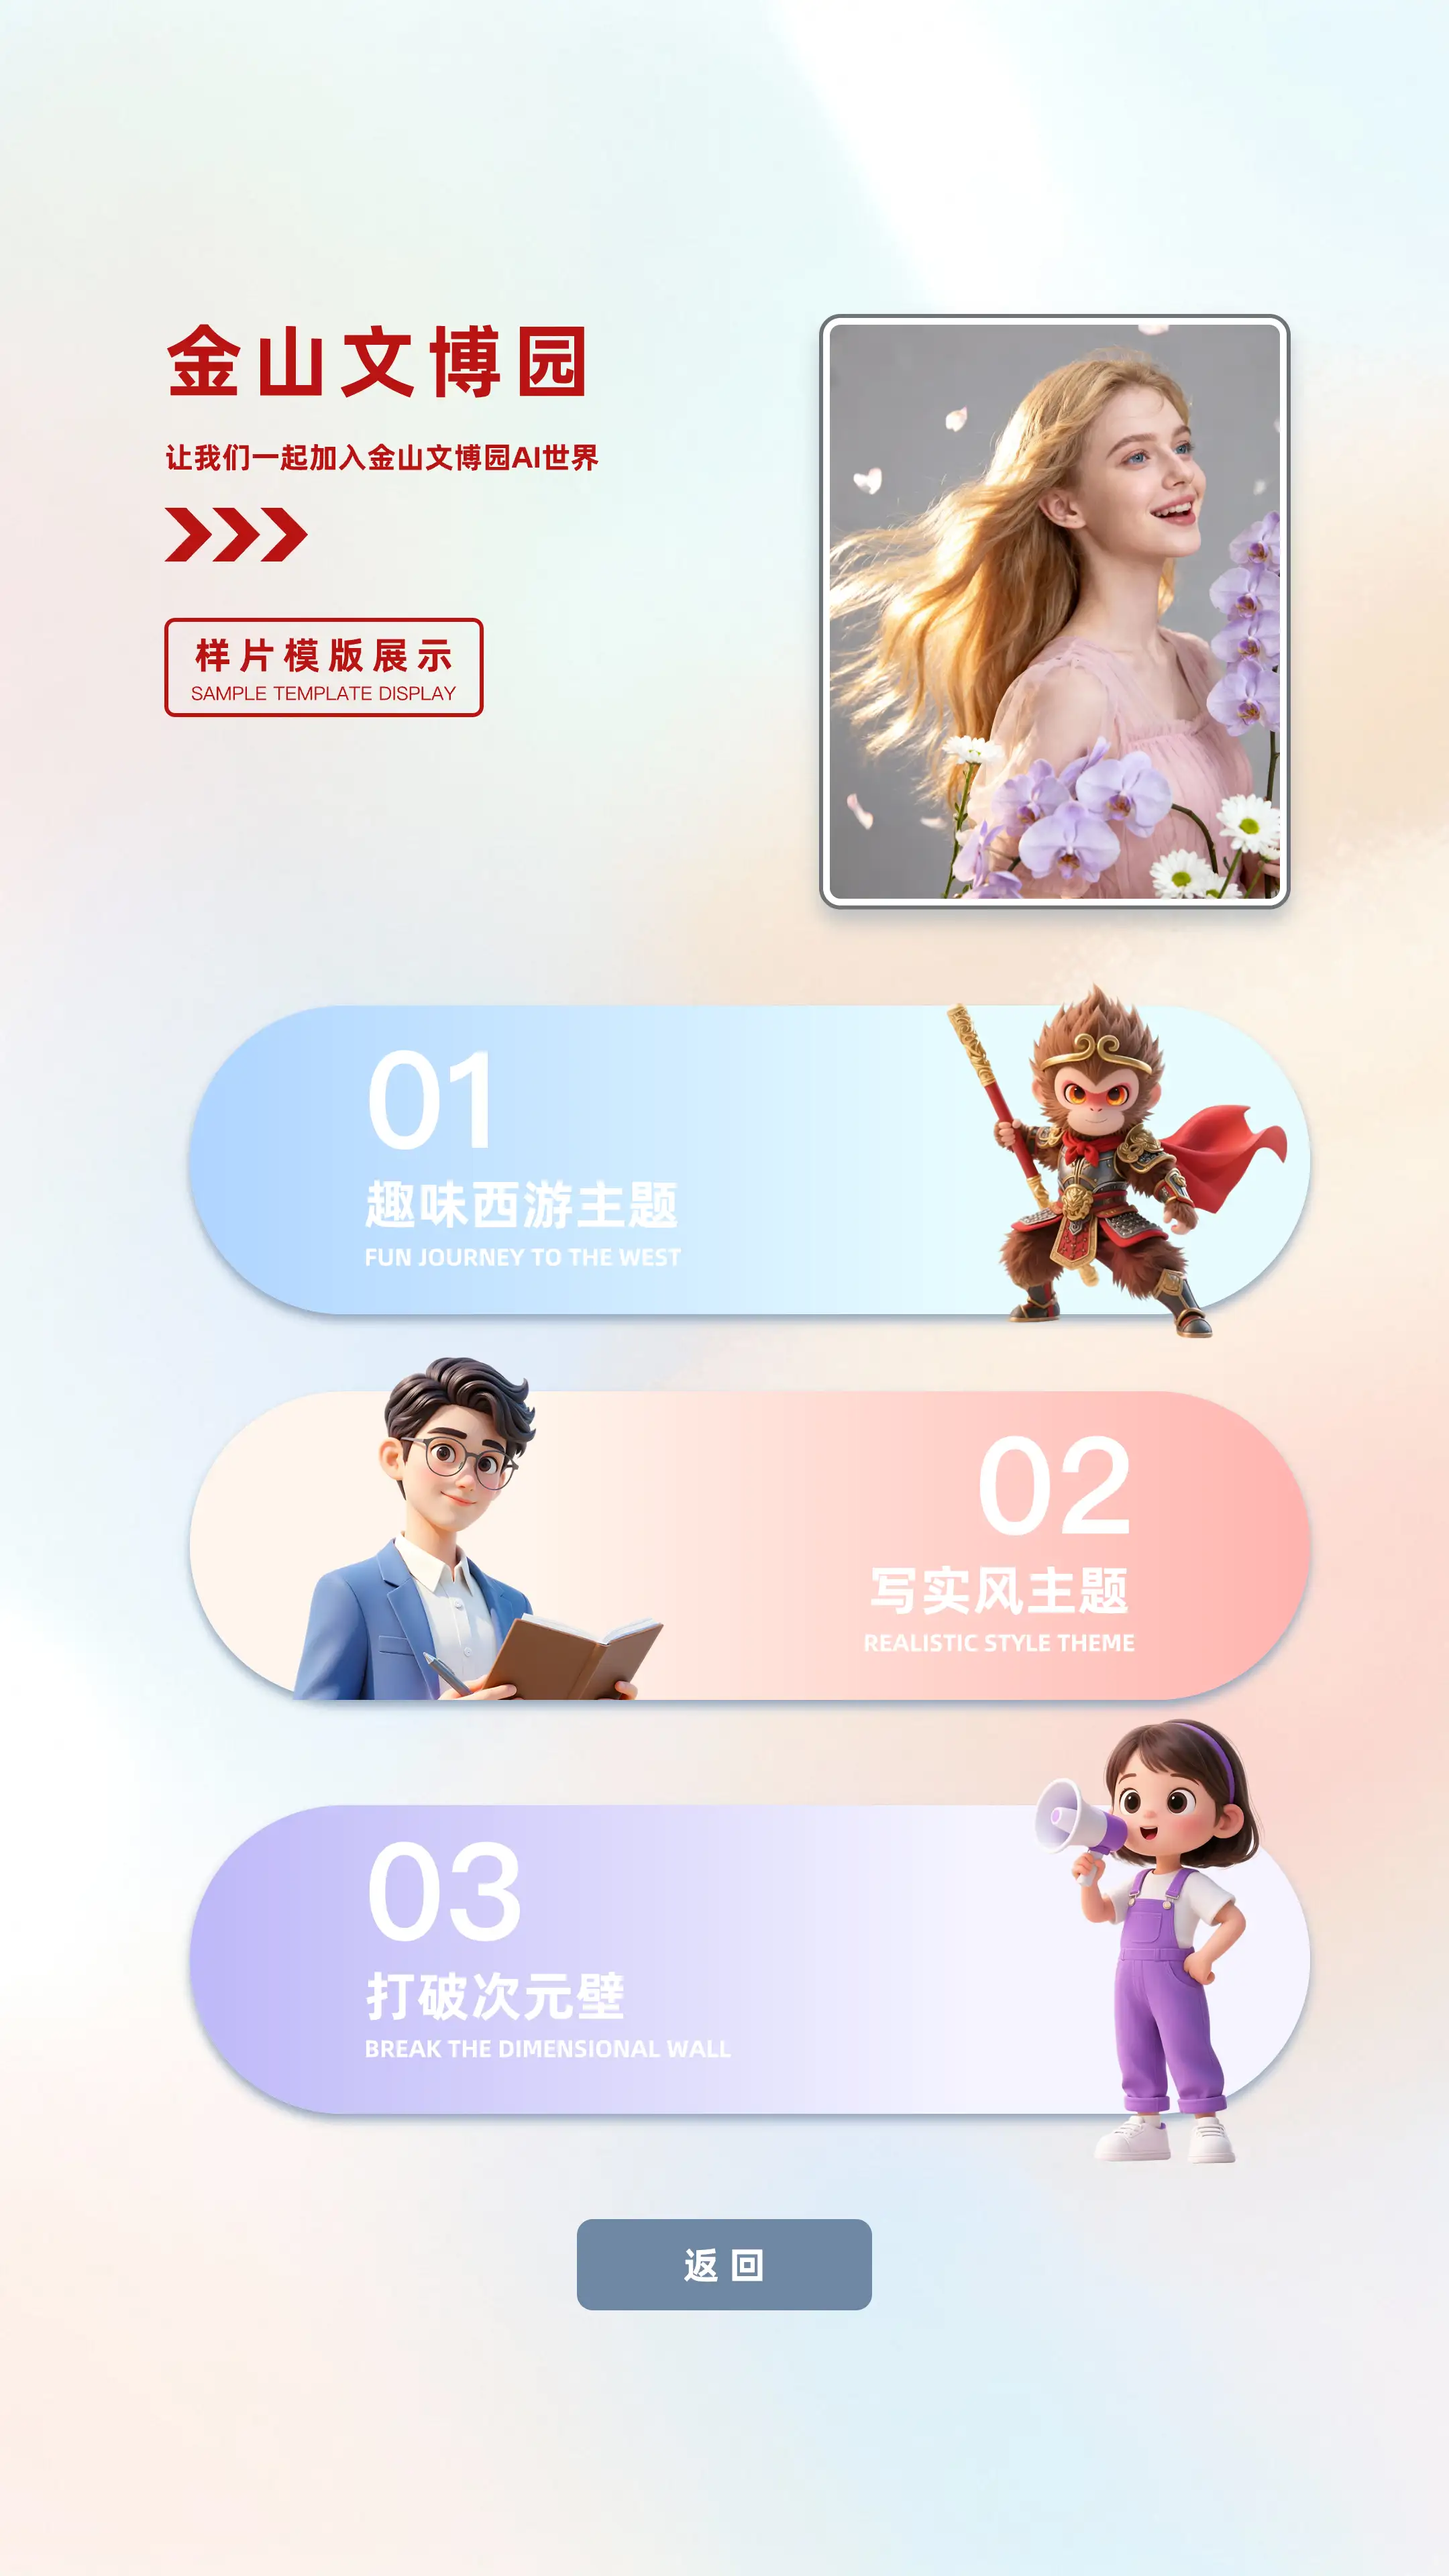
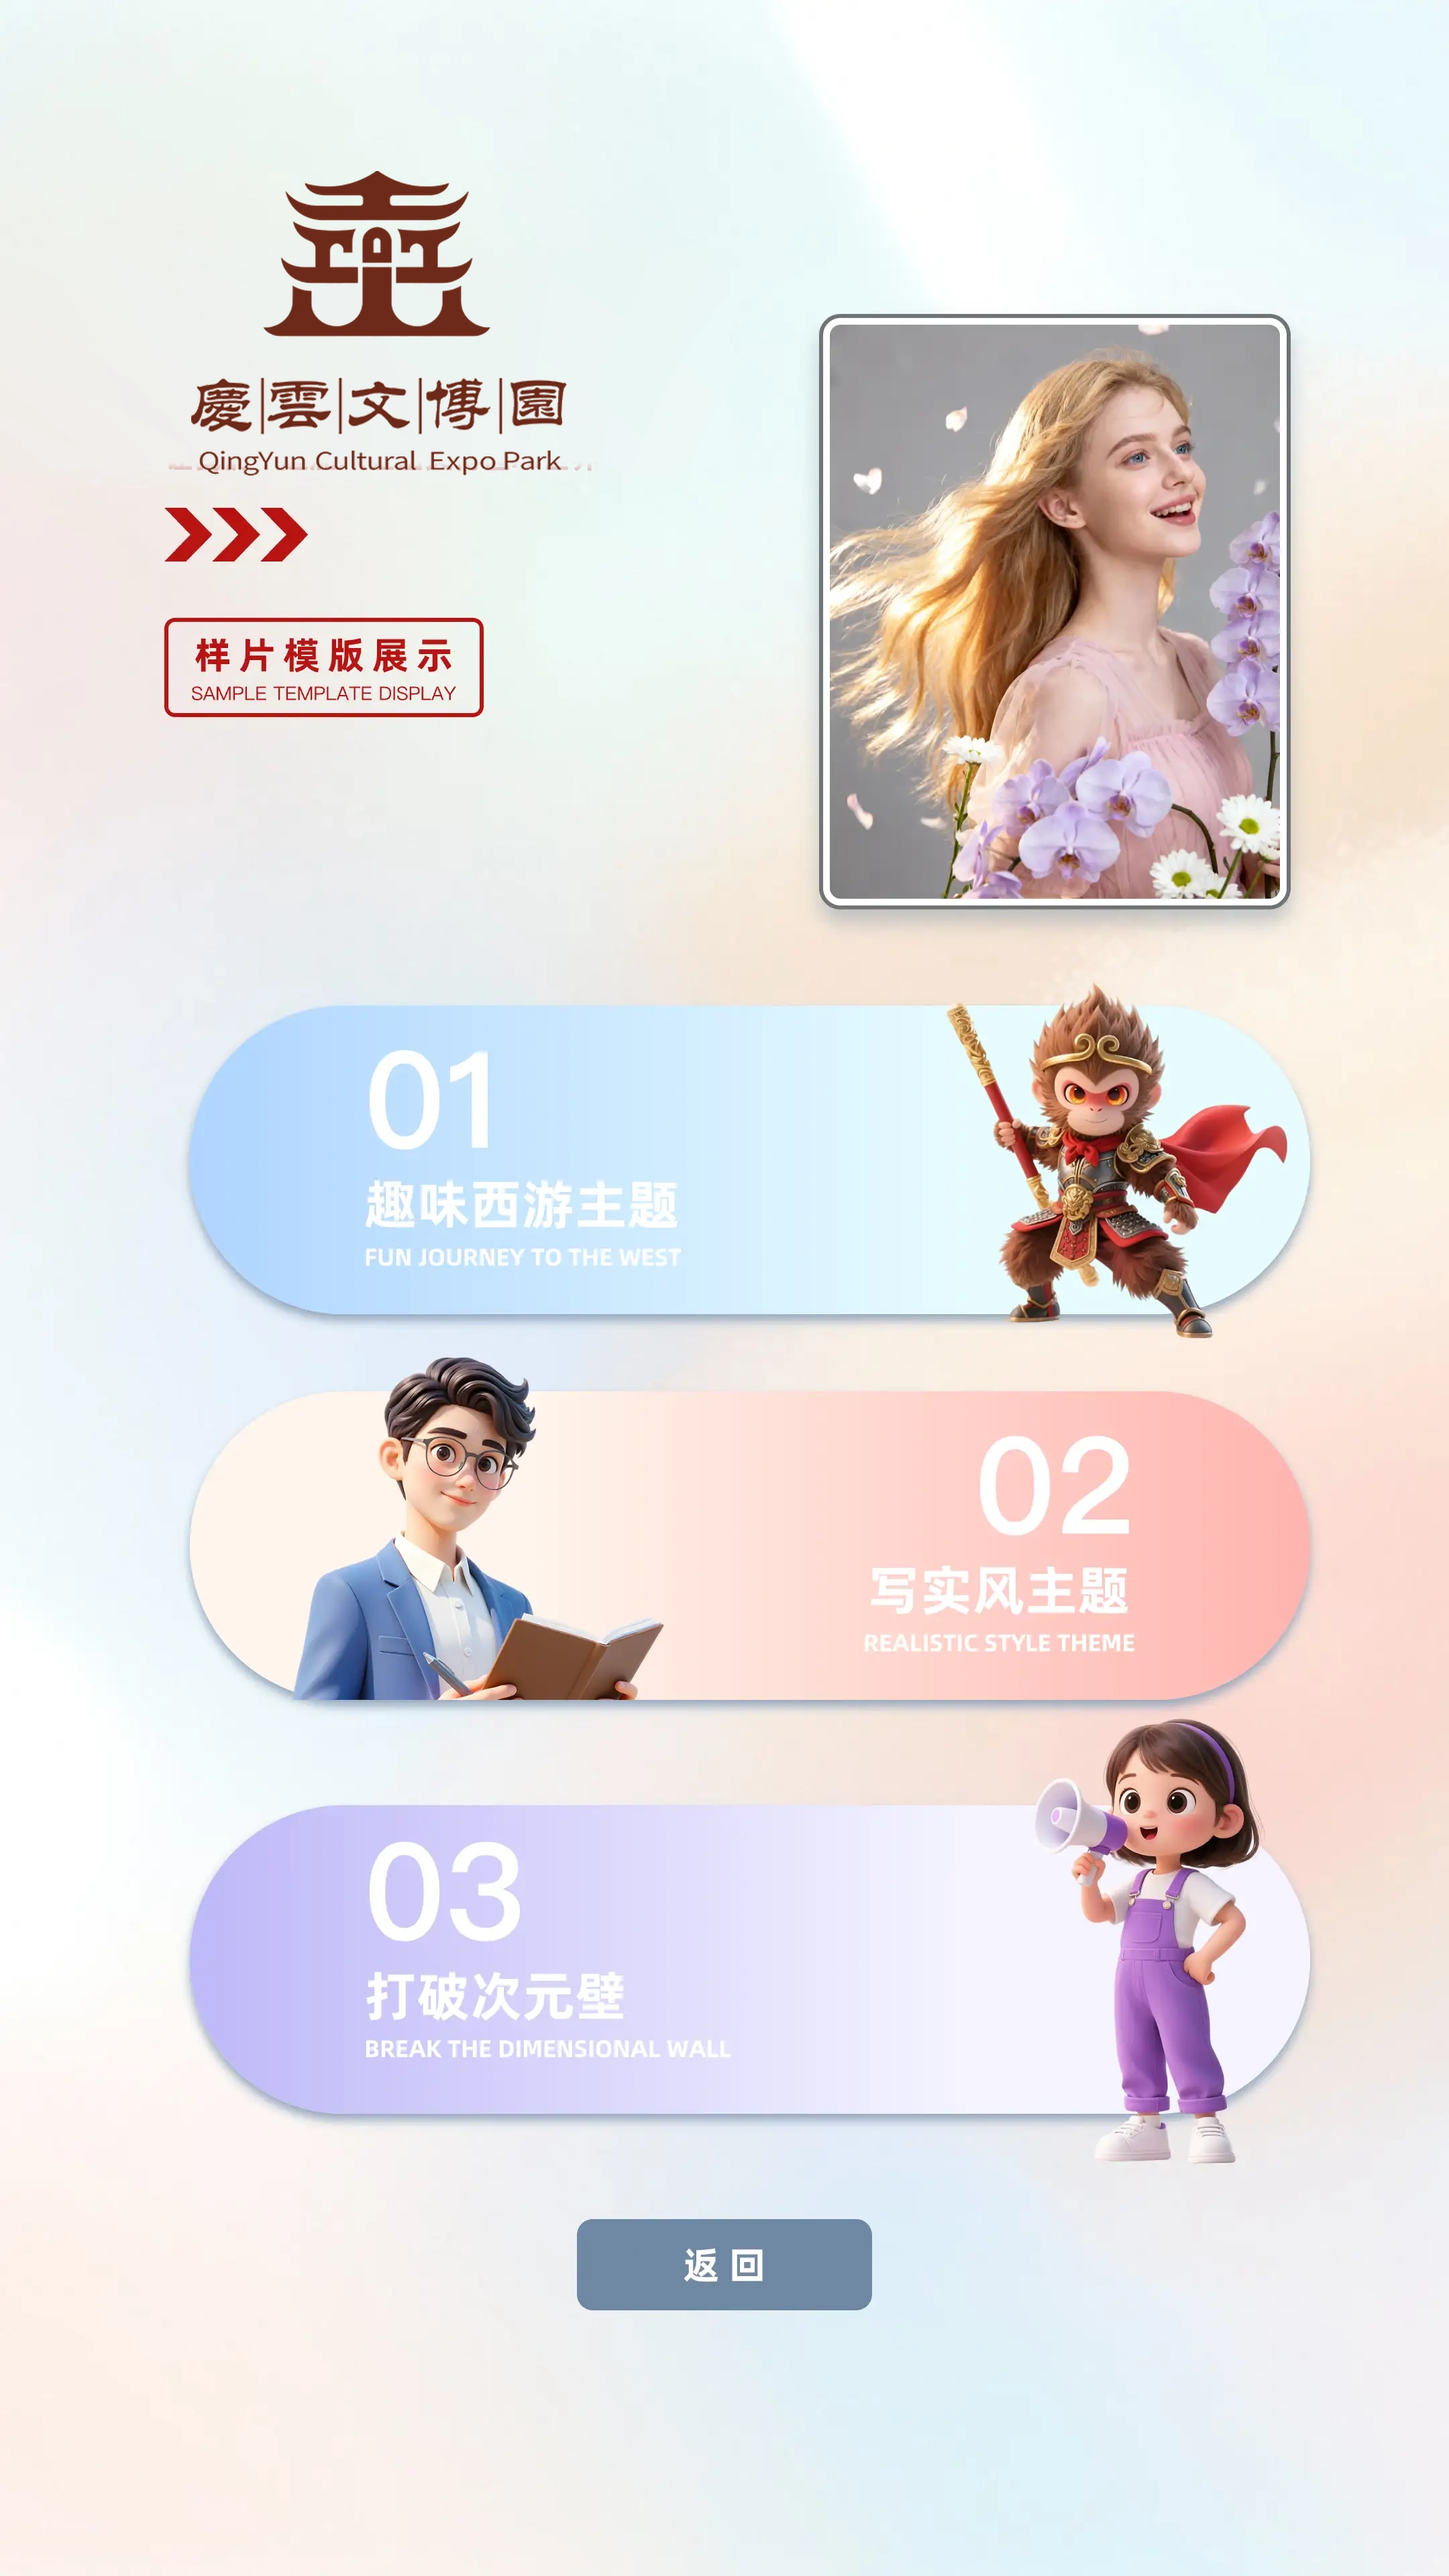
更新庆云文博园品牌资源

Changed region(s): [[0.1241, 0.0625, 0.4032, 0.1875]]

diff --git a/src/pages/Generate.vue b/src/pages/Generate.vue
@@ -29,7 +29,7 @@
             <FlipCounter class="gen-flip" :value="flipValue" :digits="2" />
 
             <img class="gen-processing" :src="generateProcessingUrl" alt="照片生成中" />
-            <img class="gen-logo" :src="generateLogoUrl" alt="Jinshan Cultural Expo Park" />
+            <img class="gen-logo" :src="generateLogoUrl" alt="QingYun Cultural Expo Park" />
           </div>
         </div>
       </div>
